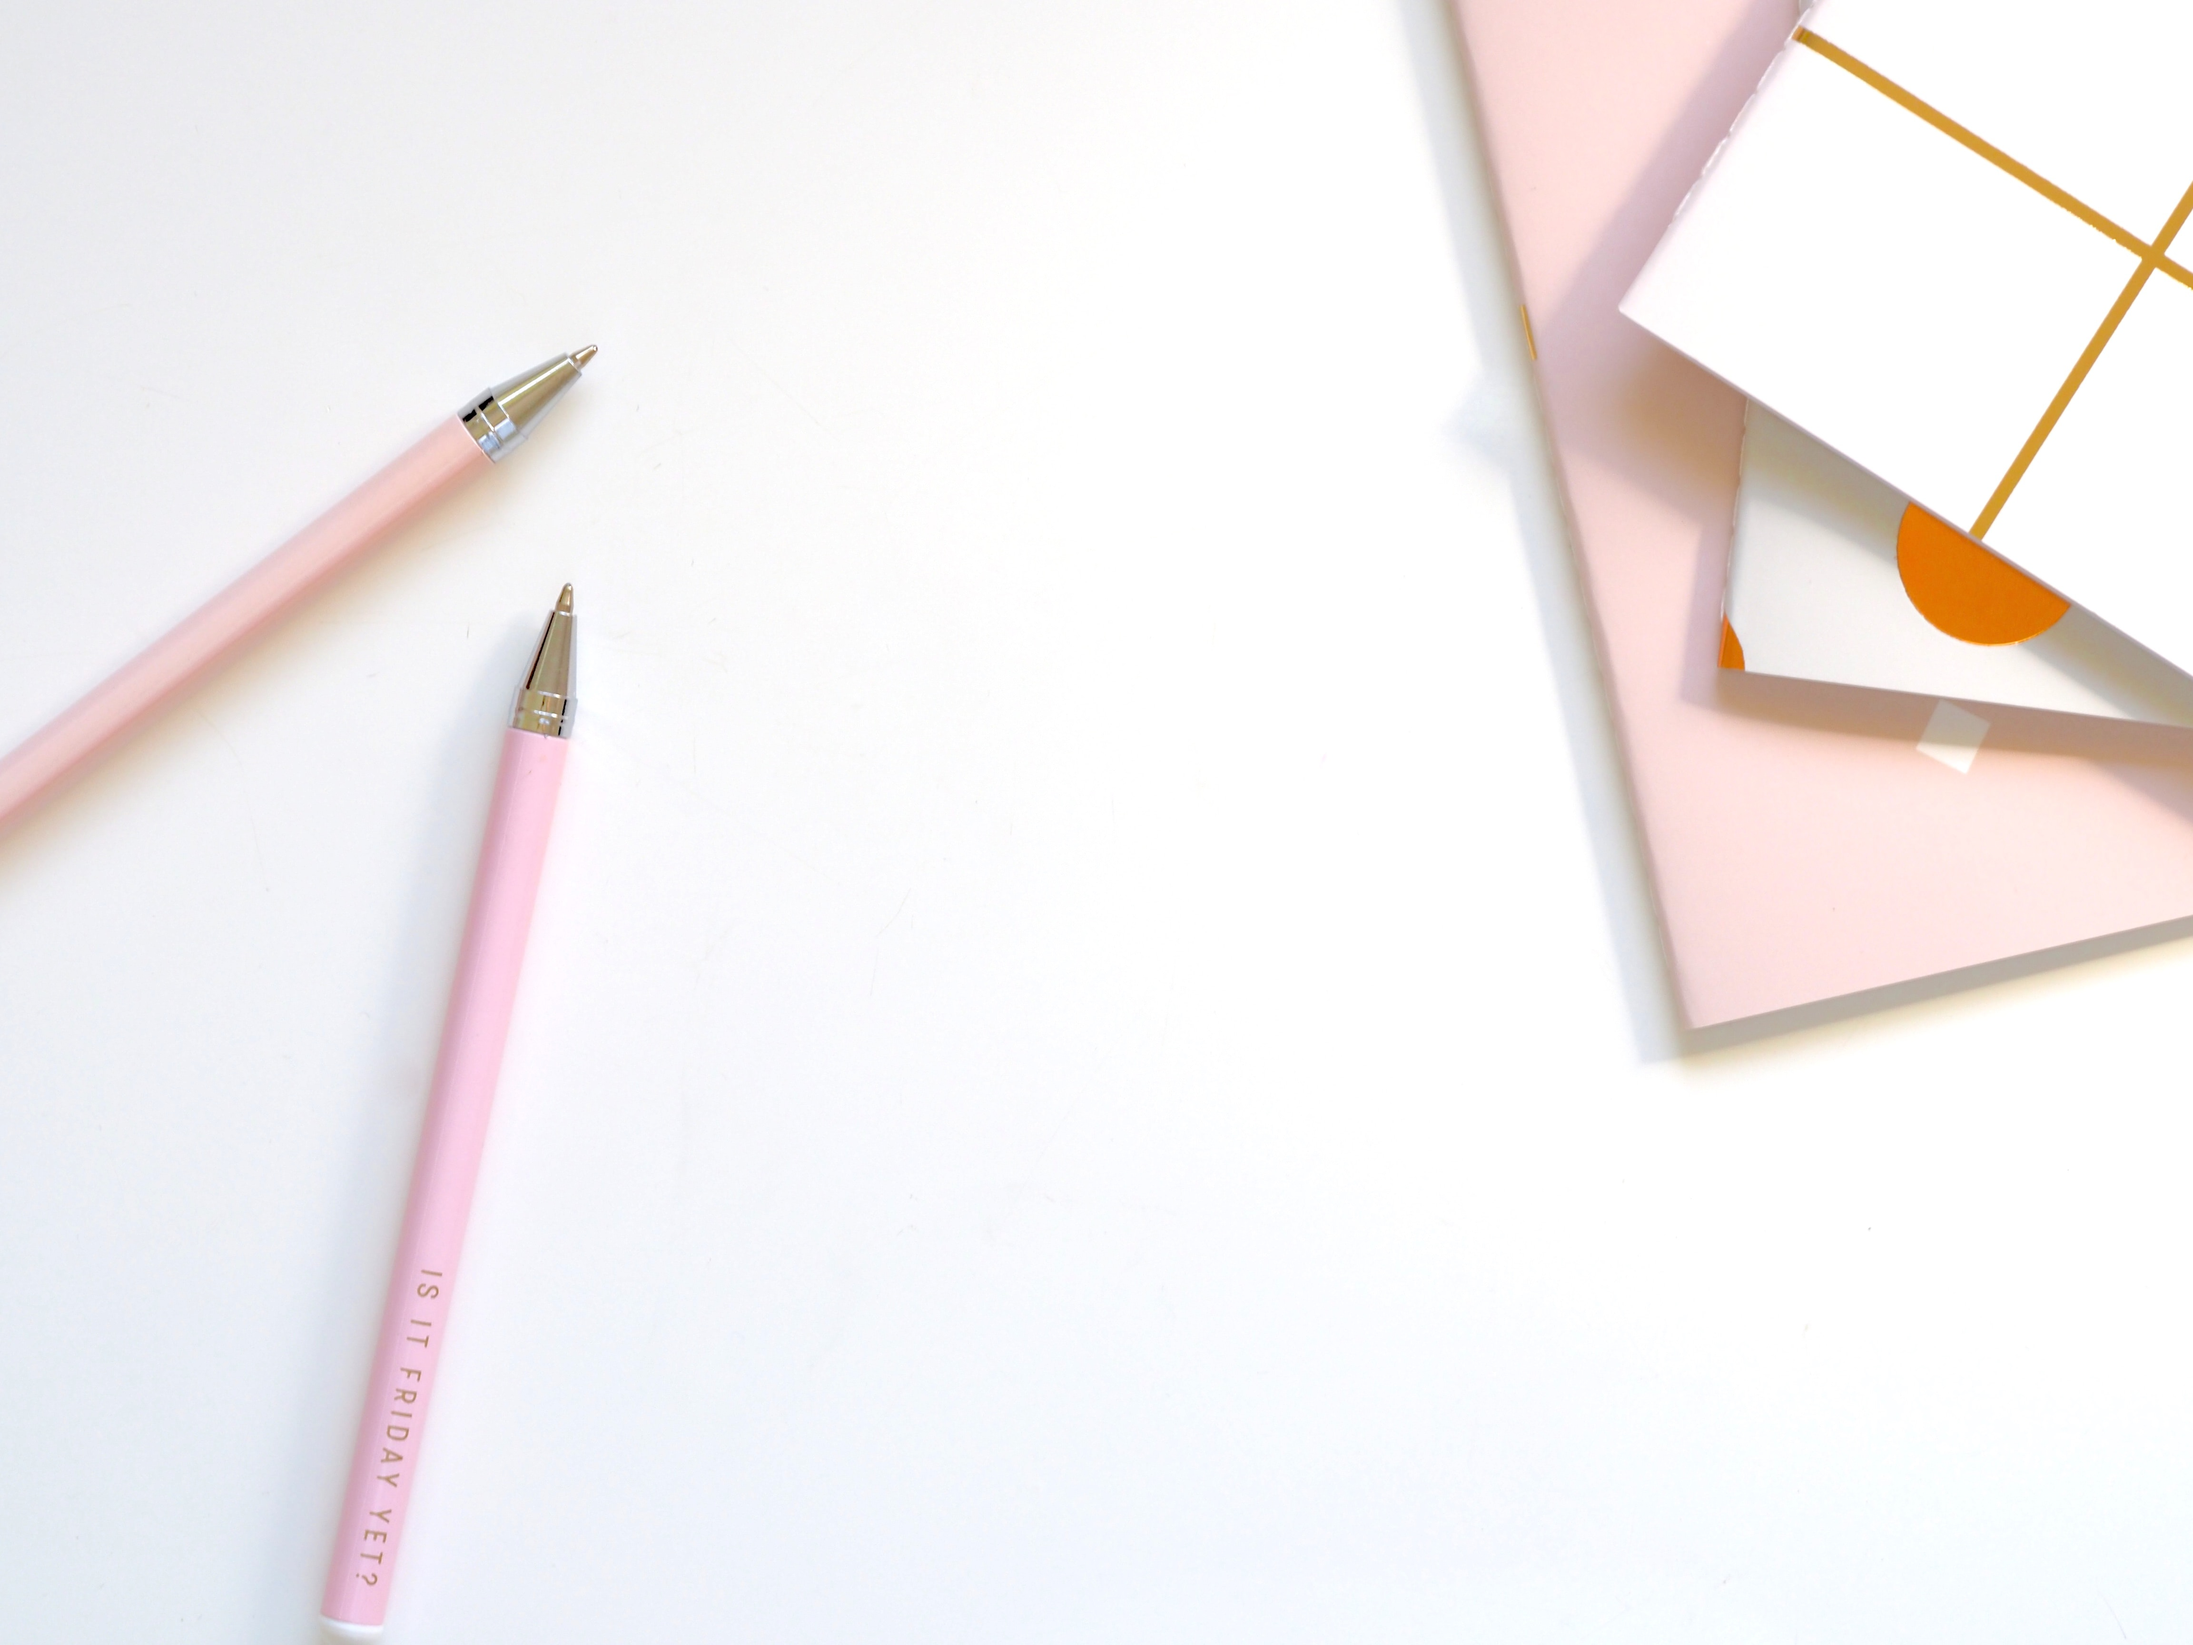
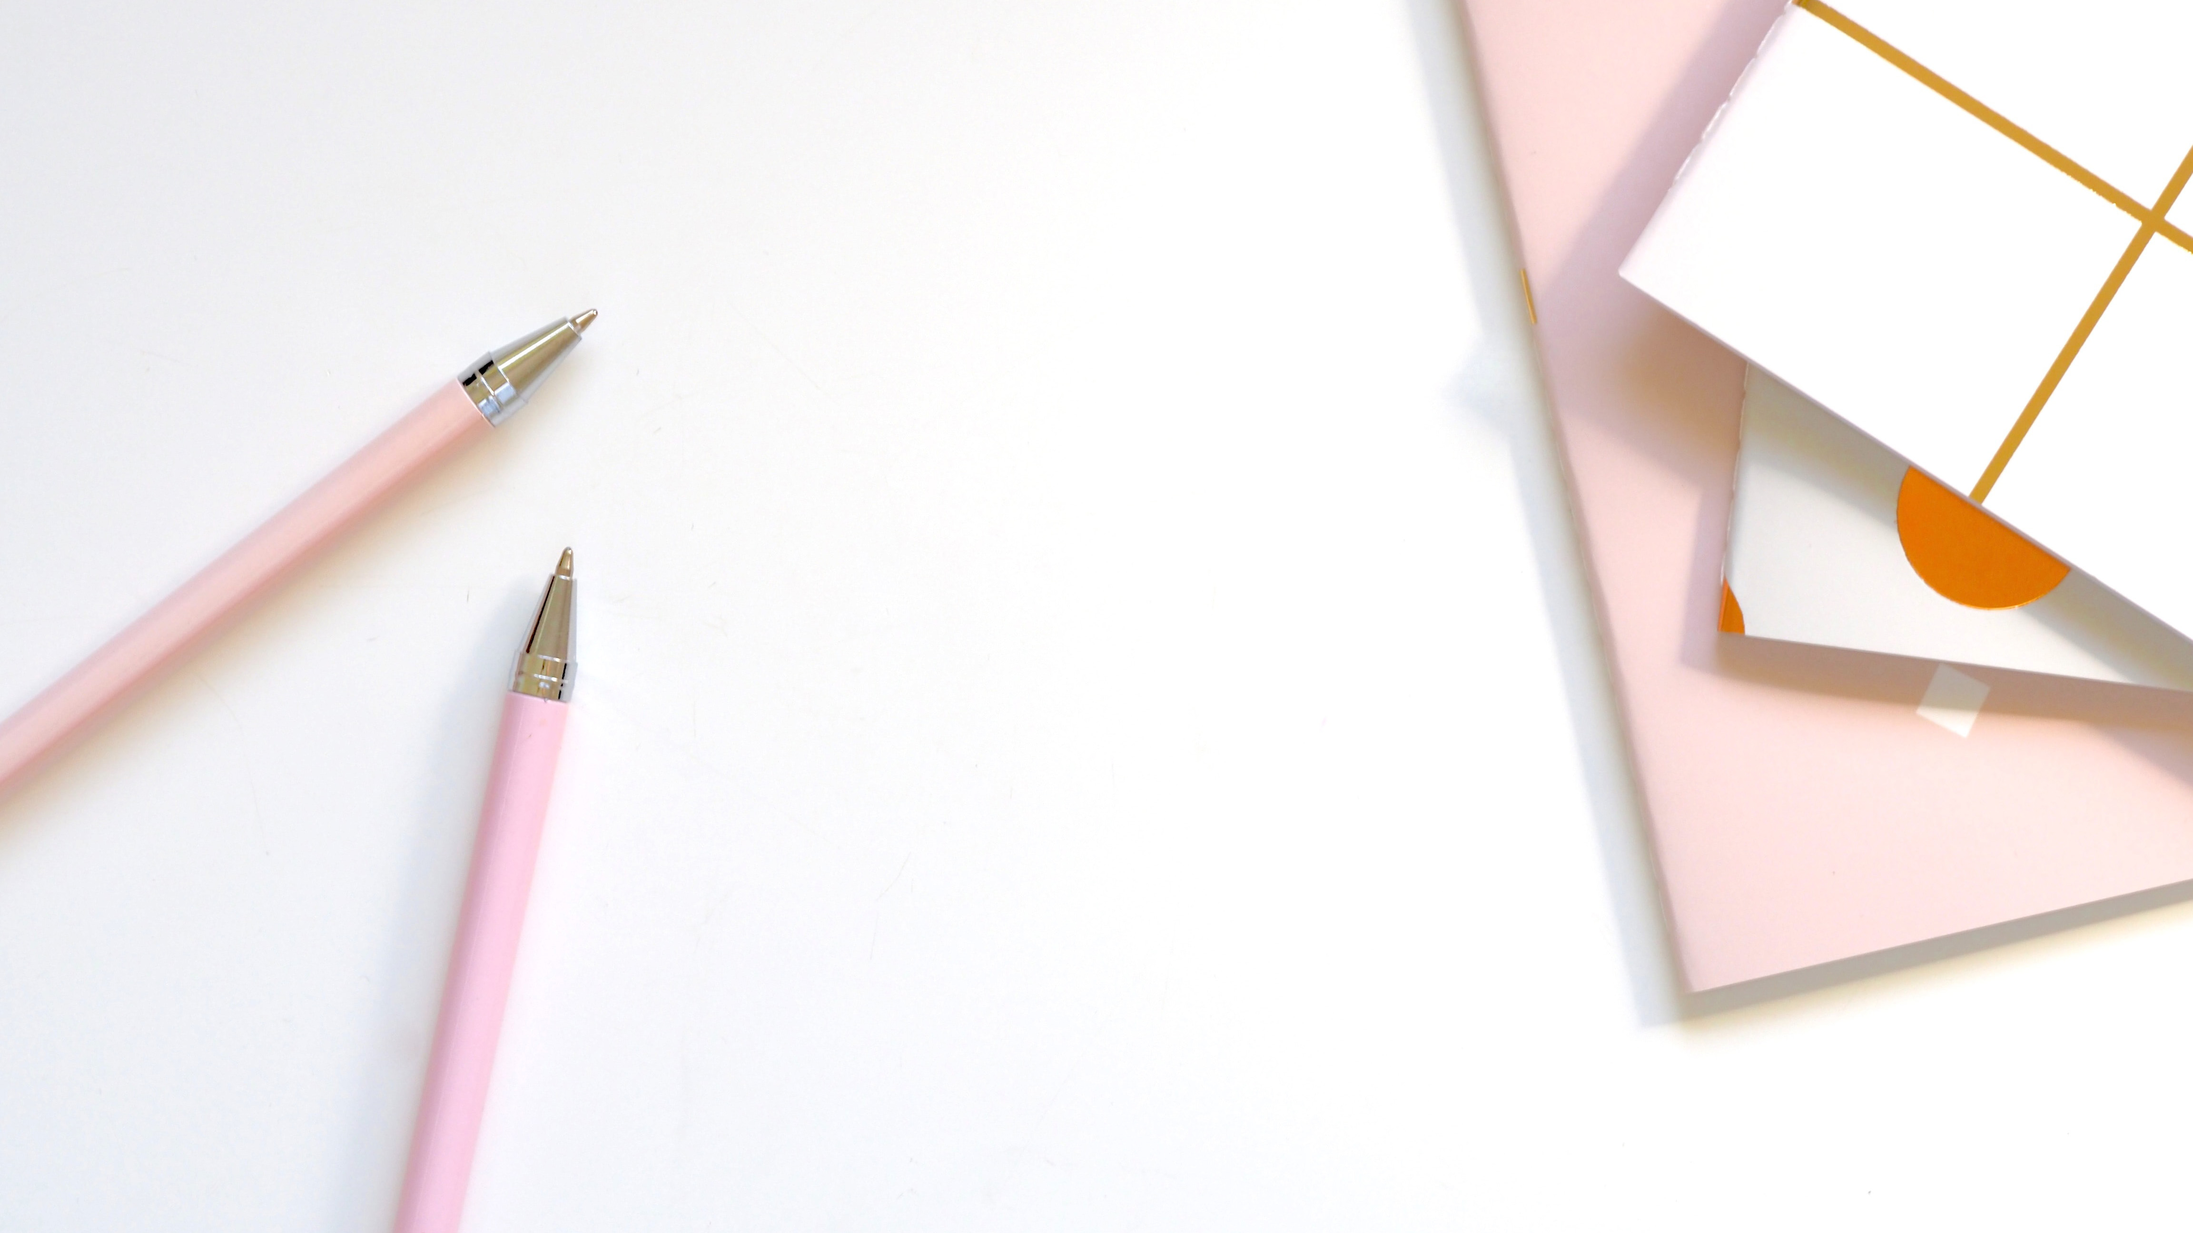
Edit the config.yml

diff --git a/index.html b/index.html
@@ -13,6 +13,9 @@ highlight_nav: home
     {% pattern sections/text-section heading="Our Products" text="Our company focuses on keeping you organized while being in style at the same time! We design every product with usability, efficiency and style in mind. Check out our wide variety of products in our shop!" %}
     {% pattern buttons/basic text="Shop Now" url="/products/" %}
   </div>
+<div class="gutter-0">
+  {% pattern sections/image image="sectional-banner-photo.jpg" %}
+  </div>
 
   <div class="unit xs-1 s-1 m-1 l-1 xl-1">
     {% pattern sections/text-section heading="Our Products" text="Check out our blog for weekly updates on our shop, behind the scenes of our designs and inspiration for your workspace!" %}

diff --git a/_patterns/sections/image.html b/_patterns/sections/image.html
@@ -1,3 +1,3 @@
-<div class="embed embed-16by9 push">
-  <img src="/images/{{include.image}}" class="embed-item" alt="Section photo">
+<div class="embed embed-16by9 push image">
+  <img src="/images/{{include.image}}" class="embed-item image" alt="Section photo">
 </div>

diff --git a/_patterns/sections/sections.css b/_patterns/sections/sections.css
@@ -5,6 +5,10 @@
   border-bottom: 2px solid var(--color-primary);
 }
 
+.image {
+  border-radius: 0px;
+}
+
 h3 {
   color: var(--color-secondary);
 }
